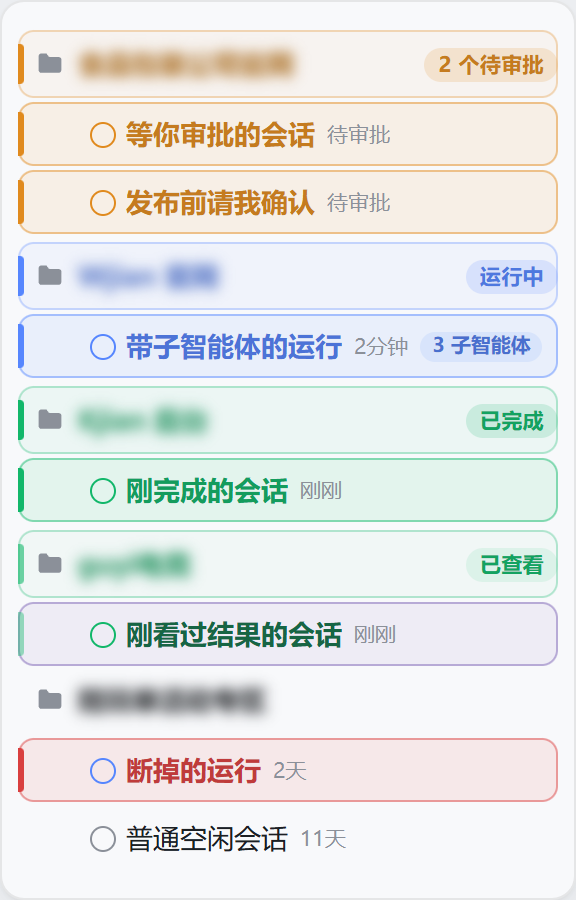
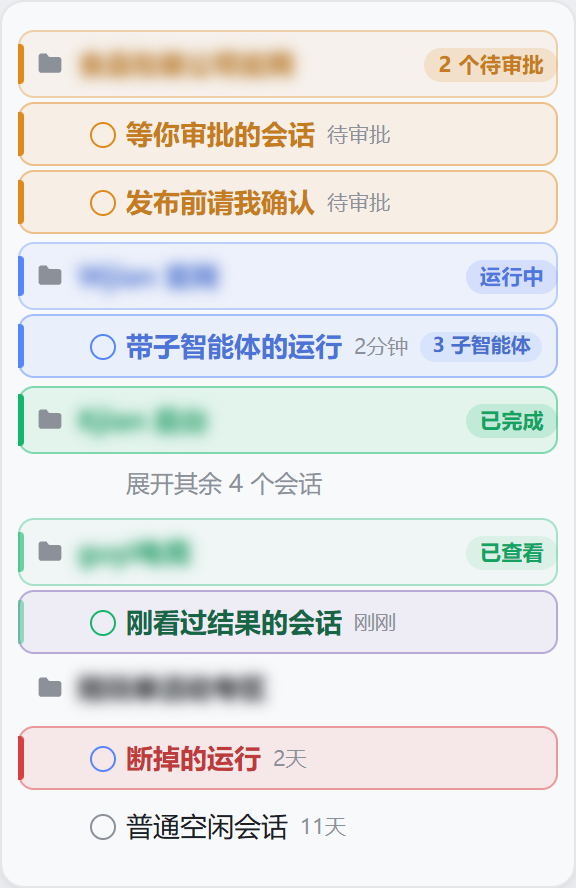
feat: let a workspace header stand in for rows the list is holding back
The official session list keeps five idle sessions per workspace on screen and
holds the rest behind an overflow row. A completion that arrived while the user
was away can be exactly the row taken off screen, and then nothing visible says
the workspace is worth opening: the header, which is all that is left, was still
drawn as a summary one step below the rows it speaks for.

A workspace whose list is holding rows back is now marked data-busy-held and its
header takes the same fill, ring and bar weight a marked session row uses. The
phase each workspace last reported is remembered under its official
workspace:<id> row key, on the unreadHoldMinutes clock, so a completion is still
announced after its own row is gone. A collapsed sub-workspace tree is treated
the same way, for the same reason.

The folder glyph carries the phase colour, so the state survives a truncated or
blurred name. Screenshots are regenerated from this code, and the light one now
depicts a workspace whose rows are held back.

diff --git a/lib/client.js b/lib/client.js
@@ -167,6 +167,14 @@ window.__ModuleLoader__.load({
       hidden: '[class*="_visuallyHidden"]',
       time: ':scope > [class*="_time"]',
       statusDot: '[data-state][aria-hidden="true"]',
+      /*
+       * The official overflow control, present only while the workspace is
+       * holding session rows back. It carries its own stable row key, so the
+       * lookup survives the hashed class rename this selector would otherwise
+       * depend on.
+       */
+      overflow: '[data-row-key^="overflow:"]',
+      header: '[data-row-key^="workspace:"]',
     };
 
     /** Marks a workspace group that holds a session worth showing. */
@@ -191,6 +199,11 @@ window.__ModuleLoader__.load({
     const SETTLED_ATTR = "data-busy-settled";
     /** Root attribute exposing the resolved intensity for CSS to scale against. */
     const INTENSITY_ATTR = "data-busy-intensity";
+    /**
+     * Set on a workspace whose session list is currently holding rows back, so
+     * CSS can raise the header to the weight of the rows it stands in for.
+     */
+    const HELD_ATTR = "data-busy-held";
 
     /** Style element identity, so a reload replaces rather than duplicates it. */
     const STYLE_ID = "dsh-plugin-busy-workspace/css";
@@ -329,19 +342,25 @@ window.__ModuleLoader__.load({
 /*
  * The header states the situation instead of hinting at it: a solid bar on the
  * leading edge plus a badge naming the state, both in the dominant phase's
- * colour family. A header speaks for its most urgent row, so its tint stays one
- * step below the rows it is speaking for.
+ * colour family.
+ *
+ * While the rows it speaks for are on screen the header deliberately stays a
+ * step below them — it is a summary, and two equally loud signals for one fact
+ * read as clutter. But a workspace can be collapsed, and then the header is
+ * *all* that is left: it is no longer summarising a visible row, it is the only
+ * place the state can appear at all. So the tint is not fixed; the rule below
+ * brings a collapsed header up to the weight a marked session row uses.
  */
 [class*="_groupSection"][data-busy-workspace="true"] > [class*="_projectRow"] {
   position: relative;
   border-radius: 8px;
   background: color-mix(
     in srgb,
-    var(--bw-tone) calc(var(--bw-fill-alpha) * 55% * var(--bw-fade)),
+    var(--bw-tone) calc(var(--bw-fill-alpha) * 68% * var(--bw-fade)),
     transparent
   );
   box-shadow: inset 0 0 0 1px
-    color-mix(in srgb, var(--bw-tone) calc(var(--bw-ring-alpha) * 62%), transparent);
+    color-mix(in srgb, var(--bw-tone) calc(var(--bw-ring-alpha) * 70%), transparent);
   transition: background 160ms var(--ds-ease-in-out, ease),
               box-shadow 160ms var(--ds-ease-in-out, ease);
 }
@@ -399,8 +418,62 @@ window.__ModuleLoader__.load({
 /* The workspace label picks up the tone so the header reads as active. */
 [class*="_groupSection"][data-busy-workspace="true"]
   > [class*="_projectRow"] [class*="_projectText"] {
-  color: color-mix(in srgb, var(--bw-tone) 72%, var(--dsw-alias-label-primary, currentColor));
-  font-weight: 550;
+  color: color-mix(in srgb, var(--bw-tone) 78%, var(--dsw-alias-label-primary, currentColor));
+  font-weight: 600;
+}
+
+/*
+ * The folder glyph is the one shape on a header that is not text, and the first
+ * thing the eye lands on when scanning a collapsed list. It carries the family
+ * colour too, so a workspace is identifiable from its icon alone.
+ *
+ * It is tinted whatever the collapsed state is: a coloured folder is a state
+ * mark on the row itself, not a second summary competing with the rows below.
+ */
+[class*="_groupSection"][data-busy-workspace="true"]
+  > [class*="_projectRow"] [class*="_folder"] {
+  color: var(--bw-tone);
+}
+
+/*
+ * When the rows go away, the header stops being a summary and becomes the row:
+ * its fill, its ring and its bar all come up to the weights a marked session row
+ * uses — same grammar, same voice, no new colour.
+ *
+ * Two different collapses can take the rows off screen, and both are read from
+ * the official DOM rather than guessed:
+ *
+ * - the plugin's own data-busy-held mark, set on a workspace whose session
+ *   list is holding rows back (read each pass from the official overflow
+ *   control). This is the common case: the list keeps five idle sessions on
+ *   screen and holds the rest behind "展开其余 N 个会话", so the visible rows no
+ *   longer describe the workspace on their own.
+ * - aria-expanded="false" on the header itself — a collapsed sub-workspace
+ *   tree. The official control owns that attribute, so reading it needs no
+ *   plugin state and cannot disagree with the arrow the user just clicked.
+ *
+ * (Backticks are avoided in this block on purpose: the sheet is a template
+ * literal, so one would close it.)
+ */
+[class*="_groupSection"][data-busy-workspace="true"][data-busy-held="true"]
+  > [class*="_projectRow"],
+[class*="_groupSection"][data-busy-workspace="true"]:has(> [class*="_projectRow"][aria-expanded="false"])
+  > [class*="_projectRow"] {
+  background: color-mix(
+    in srgb,
+    var(--bw-tone) calc(var(--bw-fill-alpha) * 100% * var(--bw-fade)),
+    transparent
+  );
+  box-shadow: inset 0 0 0 1px
+    color-mix(in srgb, var(--bw-tone) calc(var(--bw-ring-alpha) * 100% * var(--bw-fade)), transparent);
+}
+
+/* The bar grows with the row so a collapsed header reads as one solid mark. */
+[class*="_groupSection"][data-busy-workspace="true"][data-busy-held="true"]
+  > [class*="_projectRow"]::before,
+[class*="_groupSection"][data-busy-workspace="true"]:has(> [class*="_projectRow"][aria-expanded="false"])
+  > [class*="_projectRow"]::before {
+  height: 26px;
 }
 
 /* ---------------------------------------------------------------- *
@@ -795,6 +868,22 @@ window.__ModuleLoader__.load({
       return row.closest(SELECTOR.group);
     }
 
+    /**
+     * A stable identity for one workspace group across renders.
+     *
+     * The official header carries `data-row-key="workspace:<id>"`, which holds
+     * across a rename, a reorder and a collapse. A composition that renders
+     * groups without it gets `null` and keeps no group memory at all — better
+     * than keying that memory on a label the user can edit, which would hand
+     * one workspace another's remembered phase.
+     */
+    function groupIdentity(group) {
+      const header = group.querySelector(SELECTOR.header);
+      if (header === null) return null;
+      const key = header.getAttribute("data-row-key");
+      return key === null || key === "" ? null : key;
+    }
+
     /** Write an attribute only when it would actually change. */
     function setAttr(element, attribute, value) {
       if (element.getAttribute(attribute) !== value) element.setAttribute(attribute, value);
@@ -853,6 +942,7 @@ window.__ModuleLoader__.load({
      */
     function paint(settings, memory) {
       const now = Date.now();
+      const unreadMs = settings.unreadHoldMinutes * 60 * 1000;
       const root = document.documentElement;
       root.setAttribute(INTENSITY_ATTR, String(settings.intensity));
 
@@ -901,11 +991,45 @@ window.__ModuleLoader__.load({
       const listParents = new Set();
       const promotedParents = new Set();
 
+      /*
+       * The workspaces whose session list is holding rows back. The official
+       * control renders only while there is something behind it, and its own
+       * `aria-expanded` says whether those rows are still out of sight — so
+       * this reads a contract the list already maintains rather than inferring
+       * a count from what happens to be visible.
+       */
+      const held = new Set();
+      for (const control of document.querySelectorAll(SELECTOR.overflow)) {
+        if (control.getAttribute("aria-expanded") !== "false") continue;
+        const holder = control.closest(SELECTOR.group);
+        if (holder !== null) held.add(holder);
+      }
+
+      const liveGroups = new Set();
+
       for (const group of groups) {
         const parent = group.parentElement;
         if (parent !== null) listParents.add(parent);
 
-        const summary = summarise(perGroup.get(group));
+        const identity = groupIdentity(group);
+        if (identity !== null) liveGroups.add(identity);
+        const isHeld = held.has(group);
+        setAttr(group, HELD_ATTR, isHeld ? "true" : "false");
+
+        let summary = summarise(perGroup.get(group));
+        if (summary !== null) {
+          if (identity !== null) groupMemory.set(identity, { summary, at: now });
+        } else if (isHeld && identity !== null) {
+          /*
+           * Rows are being held back and none of the visible ones is active.
+           * The workspace may still be holding the one row the user needed to
+           * see; the last phase it reported is reused until it ages out, on the
+           * same clock an unread completion is held for.
+           */
+          const remembered = groupMemory.get(identity);
+          if (remembered !== undefined && now - remembered.at <= unreadMs) summary = remembered.summary;
+        }
+
         const promoted =
           summary !== null && (settings.pinBusyWorkspaces || settings.highlightBusyWorkspaceHeaders);
         setAttr(group, BUSY_ATTR, promoted ? "true" : "false");
@@ -921,6 +1045,11 @@ window.__ModuleLoader__.load({
           setAttr(header, STATE_ATTR, summary?.mark ?? "none");
           setAttr(header, LABEL_ATTR, summary?.label ?? "");
         }
+      }
+
+      // Forget workspaces that are gone, on the same principle as the row map.
+      for (const key of [...groupMemory.keys()]) {
+        if (!liveGroups.has(key)) groupMemory.delete(key);
       }
 
       // Only a container that actually holds a promoted group becomes a flex
@@ -1002,6 +1131,23 @@ window.__ModuleLoader__.load({
      * moment ago".
      */
     const settleWatch = new Map();
+
+    /**
+     * The last attention phase each workspace reported, keyed by its own
+     * `data-row-key`.
+     *
+     * This exists for one situation the row memory cannot cover: the official
+     * list keeps five idle sessions on screen and holds the rest behind its
+     * overflow control. A session that finished while the user was away can be
+     * one of the held rows, and then nothing in the DOM says the workspace is
+     * worth looking at — the row that would have said it is simply not
+     * rendered. Remembering the phase the group reached while that row was
+     * still visible is what keeps a completion findable through a collapse.
+     *
+     * It is deliberately bounded by the same clock as an unread completion, so
+     * a remembered phase cannot outlive the thing it reports.
+     */
+    const groupMemory = new Map();
 
     /**
      * Mount the observer.

diff --git a/README.md b/README.md
@@ -10,9 +10,9 @@ A DeepSeek Harness (`dsh`) Web GUI plugin that highlights running sessions and p
 
 ---
 
-![Five attention phases in one list, ranked: waiting, running, finished-unread, seen, and a quiet run marked but not promoted](assets/screenshot-1.png)
+![Five attention phases in one list, ranked: waiting, running, a workspace holding rows back, seen, and a quiet run marked but not promoted](assets/screenshot-1.png)
 
-*One list, five phases, ranked by urgency: waiting (amber) first, then running (blue, carrying its subagent chip), then finished-unread (green), then seen — the selected row, in the plugin's own violet — and last a run that went quiet (red), marked but deliberately not promoted. Every bar, tint, ring and badge here is the plugin's own CSS, driven by its own `paint()` over real `data-state` values. The list contents are a fixture and the workspace names are blurred, because a sidebar's real contents are per-installation; regenerate with `node scripts/capture-screenshots.mjs`.*
+*One list, five phases, ranked by urgency: waiting (amber) first, then running (blue, carrying its subagent chip), then finished-unread (green), then seen — the selected row, in the plugin's own violet — and last a run that went quiet (red), marked but deliberately not promoted. The green workspace is holding four sessions behind the official overflow row: the row that reported the completion is no longer on screen, and the header still names the state and still holds its place. Every bar, tint, ring, badge and chip here is the plugin's own CSS, driven by its own `paint()` over real `data-state` values. The list contents are a fixture and the workspace names are blurred, because a sidebar's real contents are per-installation; regenerate with `node scripts/capture-screenshots.mjs`.*
 
 ---
 
@@ -214,6 +214,11 @@ Three selector details are load-bearing:
 - **The relative-time label is read back.** It is a direct child of the row, and parsing it is what makes every age decision above decidable. A row waiting on the user shows the pending kind there rather than an age and parses to null — which is correct, since a waiting row is never judged by age; that same word is reused as the workspace badge text.
 
 Promotion uses CSS `order` on a flex list column. The official list is a plain block scroller, so the plugin first marks the **parent element of the workspace groups** and lets CSS turn that into a flex column; reordering nodes directly would fight React, whereas an `order` value is a purely presentational hint the renderer never reads back. **Ranking rides the same mechanism**: groups tagged `data-busy-rank` 4/3/2/1 receive `order: -4/-3/-2/-1`, so the most urgent is always first. A list with nothing promoted is left untouched.
+
+**A header outlives the rows it speaks for.** The official list keeps five idle sessions on screen per workspace and holds the rest behind an overflow row, so a session that finished while you were away can be one of the held ones — and then no visible row can say the workspace is worth opening. Two things cover that:
+
+- **The header is raised to the rows' weight.** A workspace whose list is holding rows back is marked `data-busy-held`, and its header stops being a summary: it takes the same fill, the same ring and the same bar weight a marked session row uses, because it is no longer standing in front of anything the user can see. The colour moves onto the folder glyph too, which is the one shape on the row that is not text. A collapsed sub-workspace tree — the official row is a `treeitem` and sets `aria-expanded` itself — is treated the same way, for the same reason.
+- **The last phase is remembered.** Each workspace's most recent phase is kept under its official `workspace:<id>` row key, on the same `unreadHoldMinutes` clock an unread completion is held for, so a completion that arrived while its row was still visible is still announced after the row is taken away. Nothing is invented: a workspace that never reported a phase keeps none, and one that leaves the list takes its memory with it.
 
 **Interrupted (red) is a derived state.** No session-row field reports a failure, so the plugin reads "the dot still says `ongoing` but the last activity is older than `staleRunMinutes`" as a run that died, and draws it red rather than continuing to claim it is live. Such a row does not promote its workspace either, so the list never reorders itself for a stale mark from days ago.
 

diff --git a/docs/COMPATIBILITY.md b/docs/COMPATIBILITY.md
@@ -181,6 +181,9 @@ session data, session order, or another plugin's nodes.
 | `data-state` on a session row's status dot, values `warning` / `ongoing` / `done` / `idle` | the whole attention model | **High** — absent or renamed, nothing is marked. The lookup also requires the primitive's own `aria-hidden="true"` and filters to those four values, so a foreign `data-state` in the same cell is not misread |
 | `[class*="_sessionRow"]`, `[class*="_groupSection"]`, `[class*="_projectRow"]`, `[class*="_title"]`, `[class*="_slot"]`, `[class*="_visuallyHidden"]`, `[class*="_time"]` | finding rows, groups and labels | **High** — matched by the stable suffix of build-hashed CSS-module names; a rename on either side stops the match |
 | `aria-selected` on the session row | "you are reading this row", which is what keeps a `seen` completion promoted | Medium — without it, a `seen` row lives for `seenHoldMinutes` instead of while selected |
+| `data-row-key="workspace:<id>"` on the workspace header | the key a workspace's remembered phase is stored under | Medium — without it no group memory is kept, so a workspace whose rows are held back reports only what is still on screen |
+| `data-row-key^="overflow:"` + its `aria-expanded` | telling that a workspace's list is holding rows back, which raises its header to the rows' weight and lets the remembered phase stand in | Low — without it the header stays a summary, and a held-back completion is no longer announced once its row leaves the screen |
+| `aria-expanded` on the workspace header itself | a collapsed sub-workspace tree, where the header is the only thing left on screen | Low — without it a collapsed tree keeps the ordinary header weight |
 | the row's relative-time label, as a direct child, in the shipped locale | every age decision (`unreadHoldMinutes`, `seenHoldMinutes`, `staleRunMinutes`) | Medium — an unparsable label makes an age-based decision fall back to "no age", which keeps `warning` and `unread` promoted and never invents an `interrupted` |
 | the hidden status label inside the row's leading cell (`子智能体` / `subagent(s)`, `待审批` / `Approval`, …) | the subagent chip and the workspace badge wording | Low — absent, the chip and the word are simply not drawn |
 | `window.__ModuleLoader__.load({ id, factory })` + `dsh.client.platform: "web"` | loading the client half at all | **High** — this is the documented client-bundle contract; if it changed, the bundle would not execute |

diff --git a/docs/COMPATIBILITY.zh.md b/docs/COMPATIBILITY.zh.md
@@ -126,6 +126,9 @@ DeepSeek Harness 自己会给插件设闸。机制在 `@deepseek-ai/dsh-app-boot
 | 会话行状态点上的 `data-state`，取值 `warning` / `ongoing` / `done` / `idle` | 整个注意力模型 | **高**——名字变了就什么都不标。查找还要求该原语自身的 `aria-hidden="true"`，并把取值限制在上面四个，所以同一格子里别的插件塞进来的 `data-state` 不会被误读 |
 | `[class*="_sessionRow"]`、`[class*="_groupSection"]`、`[class*="_projectRow"]`、`[class*="_title"]`、`[class*="_slot"]`、`[class*="_visuallyHidden"]`、`[class*="_time"]` | 定位行、分组与标签 | **高**——按构建期哈希类名的稳定后缀匹配，两边任一侧改名都会失配 |
 | 会话行上的 `aria-selected` | 判断"你正在读这一行"，这是 `seen` 阶段仍被置顶的依据 | 中——没有它，`seen` 行会退化为按 `seenHoldMinutes` 计时，而不是"只要你停在上面就一直在" |
+| 工作区标题行上的 `data-row-key="workspace:<id>"` | 工作区"记住的阶段"存在哪个键下 | 中——没有它就不保留组级记忆，被收起行的那些工作区只能报告仍在屏上的行 |
+| `data-row-key^="overflow:"` 及它自身的 `aria-expanded` | 判断某个工作区的列表正在藏行，据此把文件夹行抬到会话行同级、并让记忆里的阶段顶上来 | 低——没有它文件夹行仍是"摘要"，被收起的完成在行离屏后不再被报出 |
+| 工作区标题行自身的 `aria-expanded` | 折叠的子工作区树，此时文件夹行是屏上唯一的东西 | 低——没有它，折叠的树沿用普通文件夹行权重 |
 | 行内作为直接子节点的相对时间标签，按已发布语言 | 所有按时间做的判断（`unreadHoldMinutes`、`seenHoldMinutes`、`staleRunMinutes`） | 中——标签解析不出来时，时间判定退化为"没有时间"，于是 `warning` 与 `unread` 继续置顶，且永远不会凭空判出 `interrupted` |
 | 行首单元格里的隐藏状态标签（`子智能体` / `subagent(s)`、`待审批` / `Approval` 等） | 子智能体计数 chip 与工作区徽标的措辞 | 低——读不到就不画 chip、不写那个词 |
 | `window.__ModuleLoader__.load({ id, factory })` + `dsh.client.platform: "web"` | 客户端半边能否加载 | **高**——这是官方客户端 bundle 契约；它变了，bundle 根本不会执行 |

diff --git a/CHANGELOG.md b/CHANGELOG.md
@@ -17,6 +17,22 @@ from the same tagged tree, so all three channels ship identical bytes.
 
 ## [Unreleased]
 
+### Added
+
+- **A workspace header now stands in for rows the list is holding back.** The
+  official session list keeps five idle sessions per workspace on screen and
+  holds the rest behind its overflow row, so a session that finished while the
+  user was away could be exactly the one taken off screen — and then nothing
+  visible said the workspace was worth opening. A workspace whose list is
+  holding rows back is marked `data-busy-held` and its header is raised from a
+  summary to the weight a marked session row uses; the phase each workspace last
+  reported is remembered under its official `workspace:<id>` row key, on the
+  `unreadHoldMinutes` clock, so the completion is still announced after its own
+  row is gone. A collapsed sub-workspace tree is treated the same way, because
+  there too the header is the only thing left on screen.
+- The folder glyph on a marked header now carries the phase colour, so the
+  state survives a truncated or blurred name.
+
 ### Changed
 
 - **The screenshots are now generated from the code they document.**
@@ -24,7 +40,8 @@ from the same tagged tree, so all three channels ship identical bytes.
   since before the five attention phases shipped, so the project page was still
   showing the single-state version: no urgency ranking, no workspace badges, no
   subagent chip, no selection hue. Both images are re-captured from the current
-  stylesheet and the current `paint()`.
+  stylesheet and the current `paint()`, and the light one now also shows a
+  workspace whose rows are held back.
 - `scripts/capture-screenshots.mjs` now produces them by reading the CSS and the
   functions out of `lib/client.js` itself and driving a fixture sidebar with the
   real `paint()`. Re-running it after an edit is the whole update procedure, so
